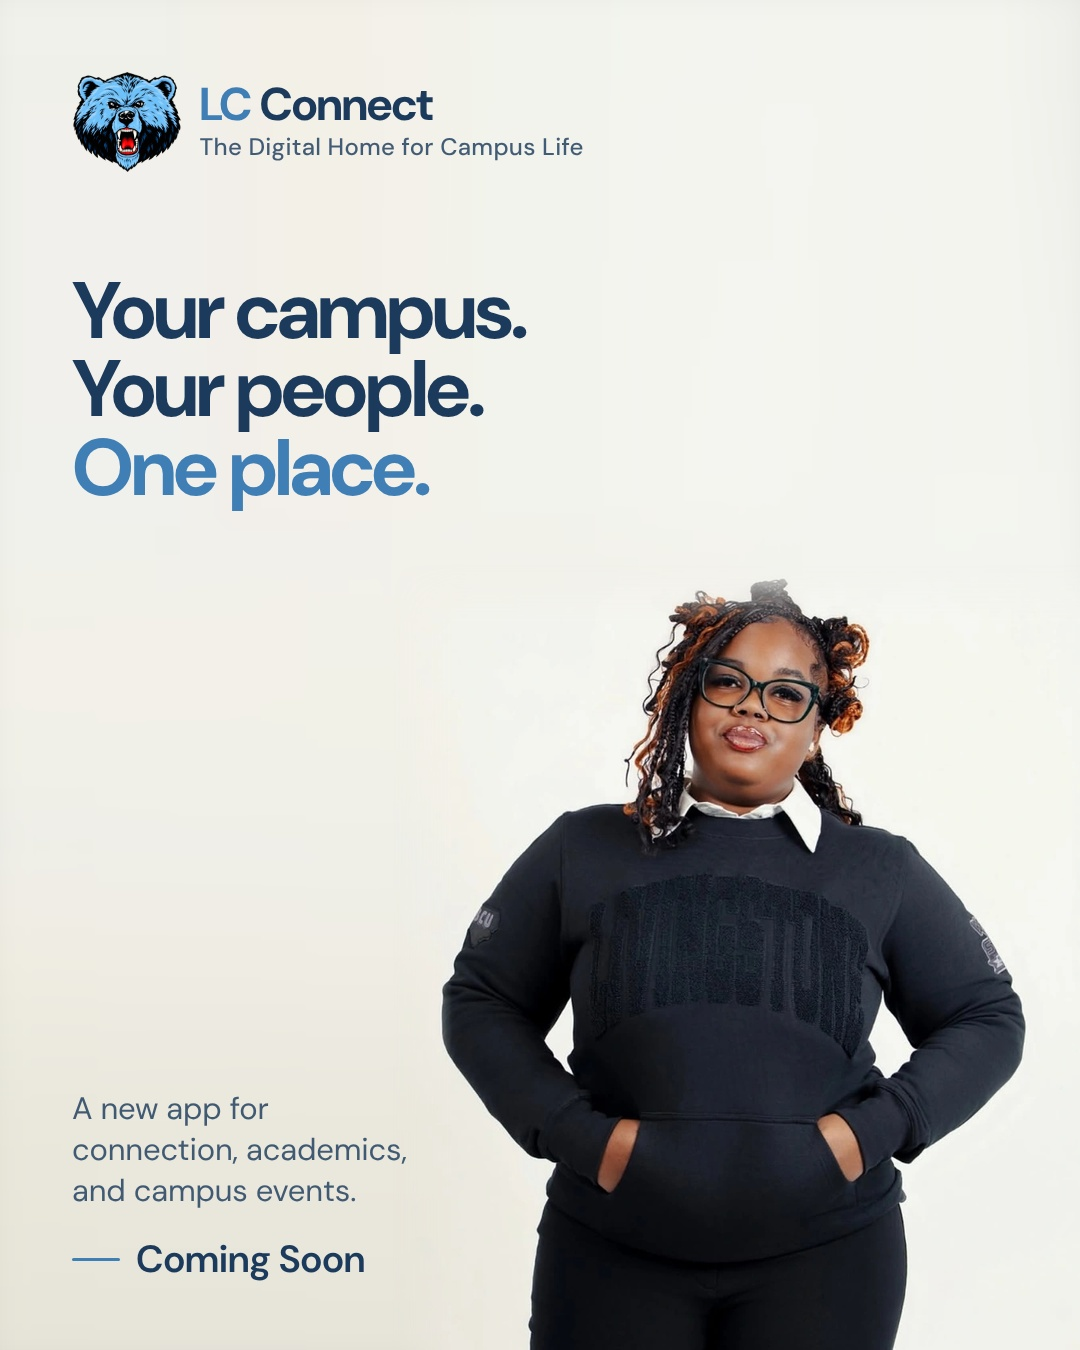
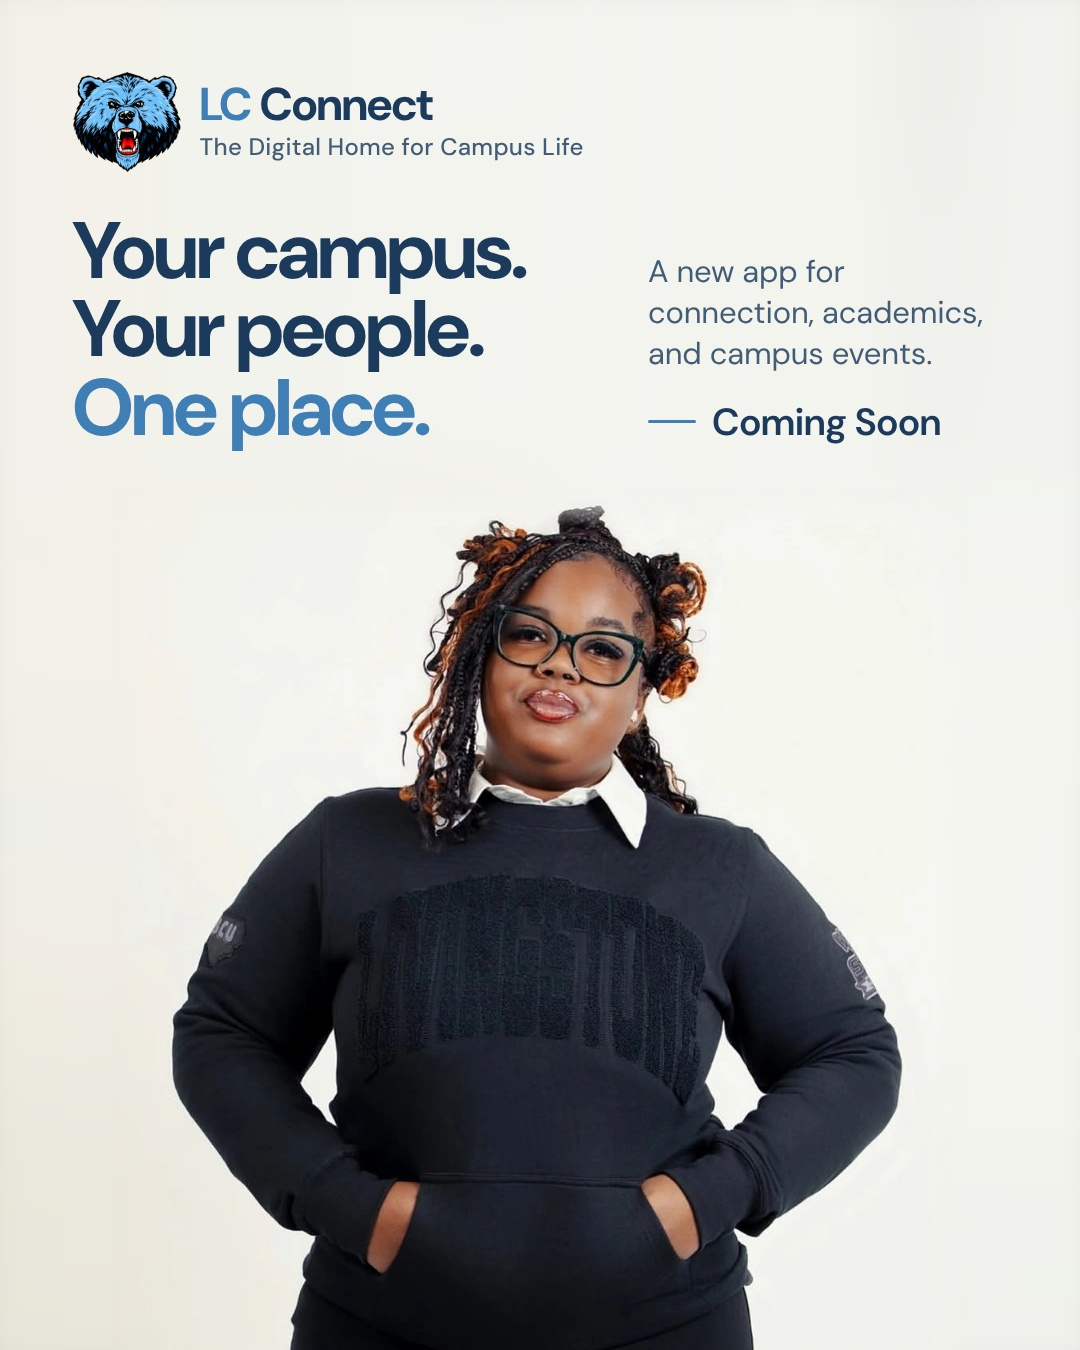
student-10: hero layout — larger, centred, type in a header band
Shows her at 1:1 (largest the source allows), centred and cropped below
the hands, with all type in a two-column header above (new
layout.footerTop). Other posters render pixel-identical.

Claude-Session: https://claude.ai/code/session_01Q1CBtzs9MBD2ynYwK4E3t9

diff --git a/campaign/templates/poster.js b/campaign/templates/poster.js
@@ -233,10 +233,12 @@ function renderLayout(poster, layout = {}) {
   if (layout.theme) poster.dataset.theme = layout.theme;
   if (layout.headlineBottom !== undefined) document.getElementById("headline").dataset.anchor = "bottom";
   if (layout.footerAlign) document.querySelector(".footer").dataset.align = layout.footerAlign;
+  if (layout.footerTop !== undefined) document.querySelector(".footer").dataset.anchor = "top";
   setVars(poster, {
     "--headline-top": px(layout.headlineTop),
     "--headline-bottom": px(layout.headlineBottom),
     "--footer-w": px(layout.footerWidth),
+    "--footer-top": px(layout.footerTop),
     "--type-headline": px(layout.headlineSize),
     "--bear-h": px(layout.bearHeight),
     "--brand-top": px(layout.brandTop),

diff --git a/campaign/styles/phase1-poster.css b/campaign/styles/phase1-poster.css
@@ -158,6 +158,9 @@ html, body { background: #000; }
   flex-direction: column;
   gap: 28px;
 }
+/* Footer in the header band (layout.footerTop) — for hero shots where the subject fills the lower
+   frame and the type sits above them in two columns. */
+.footer[data-anchor="top"] { bottom: auto; top: var(--footer-top, 0px); }
 /* Footer on the opposite side from the headline (text stays left-aligned as a column). */
 .type .footer[data-align="right"] { left: auto; right: 0; text-align: left; }
 .type .footer[data-align="right"] .status { flex-direction: row; }

diff --git a/campaign/README.md b/campaign/README.md
@@ -64,6 +64,7 @@ To preview while tweaking, serve the folder (`npx http-server .`) and open
 | `layout.headlineSize` | Optional override of the headline size for tight portraits. |
 | `layout.headlineBottom` | Anchor the headline to the bottom of the frame instead (px from the bottom margin; negative lets descenders sit in the margin). For wide/group shots with space only below the subjects. |
 | `layout.footerAlign` | `right` puts the product line + Coming Soon in a column opposite the headline. |
+| `layout.footerTop` | Anchor the product line + Coming Soon to the top band instead (px below the top margin) — for hero shots where the subject fills the lower frame and all type sits above them in two columns. |
 | `layout.tone` | Optional CSS background for the tone layer (e.g. a soft gradient); off by default. |
 
 For group photos (people across the whole width) don't shift anyone aside: fill the width,
@@ -151,11 +152,12 @@ Copy, colours, type and the logo treatment are deliberately **not** per-student:
   this poster uses `layout.theme: "light"` — navy type (11.5:1), brand blue accents (4.2:1, large
   text) — and the white backdrop extends seamlessly above. Shown 1:1, bottom-right, with the type
   column on the open white to the left.
-- **student-10** (Livingstone sweatshirt on a white studio sweep, from a story screenshot): light
-  theme like student-09. Cropped below the story's repost icon and inside the card's rounded
-  corners, scaled 0.8 and set bottom-right; the warm off-white sweep is continued around it with
-  `photo.extend` in `edges` mode (only the photo's empty borders, blurred), so no subject shadow
-  bleeds into the backdrop.
+- **student-10** (Livingstone sweatshirt on a white studio sweep, from a story screenshot): a hero
+  layout. Light theme like student-09, but shown at 1:1 (the largest the screenshot allows), centred,
+  cropped just below the hands-in-pockets so she fills the lower two-thirds; all type sits in a
+  two-column header above her (lockup + headline left, product line + Coming Soon right, via
+  `layout.footerTop`). The off-white sweep is continued at the sides with `photo.extend` in `edges`
+  mode, so nothing of her bleeds into the backdrop.
 - **Coming Soon** is a rule-and-label signature in the type system rather than a badge, so it reads
   as part of the campaign rather than a sticker.
 - **Mobile.** Smallest text is 24px at 1080 wide (~9px on a phone feed); body copy is 31px and the
